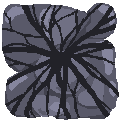
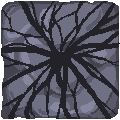
Help Screen

diff --git a/EscapeTheCave/Help.cpp b/EscapeTheCave/Help.cpp
@@ -1,0 +1,23 @@
+#include "Engine.h"
+#include "Help.h"
+#include "Home.h"
+#include "GameLevel.h"
+
+
+void Help::Init() {
+    backg = new Sprite("Resources/HelpScreen.png");
+    level = 0;
+}
+
+void Help::Finalize() {
+    delete backg;
+}
+
+void Help::Update() {
+    if (window->KeyPress(VK_ESCAPE)) Engine::Next<Home>();
+    if (window->KeyPress(VK_RETURN)) Engine::Next<GameLevel>();
+}
+
+void Help::Draw() {
+    backg->Draw(window->CenterX(), window->CenterY(), Layer::BACK);
+}

diff --git a/EscapeTheCave/Home.cpp b/EscapeTheCave/Home.cpp
@@ -1,5 +1,6 @@
 #include "Engine.h"
 #include "Home.h"
+#include "Help.h"
 #include "GameLevel.h"
 
 void Home::Init() {
@@ -14,6 +15,7 @@ void Home::Finalize() {
 void Home::Update() {
     if (window->KeyPress(VK_ESCAPE)) window->Close();
     if (window->KeyPress(VK_RETURN)) Engine::Next<GameLevel>();
+    if (window->KeyPress('H')) Engine::Next<Help>();
 }
 
 void Home::Draw() {

diff --git a/EscapeTheCave/Help.h b/EscapeTheCave/Help.h
@@ -1,10 +1,10 @@
-#ifndef _ESCAPETHECAVE_HOME_H_
-#define _ESCAPETHECAVE_HOME_H_
+#ifndef _ESCAPETHECAVE_HELP_H_
+#define _ESCAPETHECAVE_HELP_H_
 
 #include "Game.h"
 #include "Sprite.h"
 
-class Home : public Game {
+class Help : public Game {
     private:
         Sprite * backg = nullptr;
     public:
